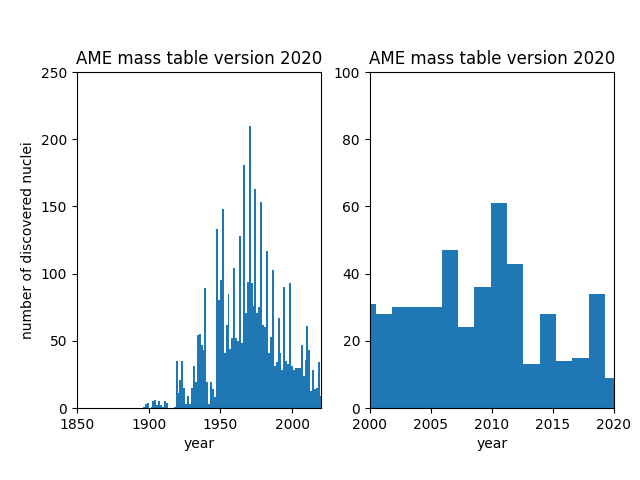
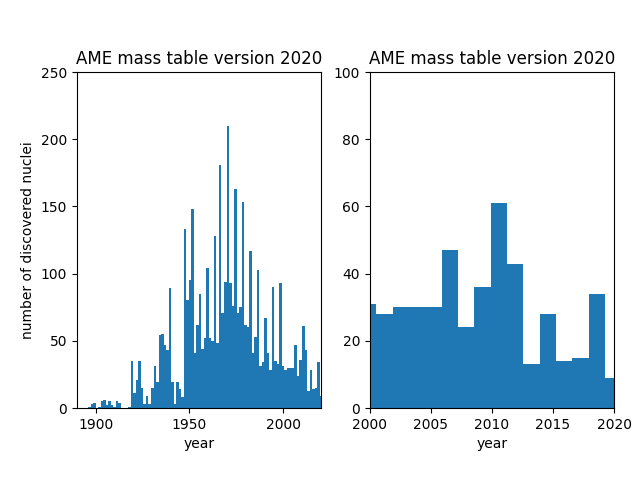
improvment in the naming...

Changed region(s): [[0.0938, 0.3438, 0.5, 0.9062], [0.4062, 0.875, 0.5, 0.9062], [0.9375, 0.875, 1.0, 0.9062]]

diff --git a/version1.0/samples/nucleardatapy_plots/plot_EOSEsym.py b/version1.0/samples/nucleardatapy_plots/plot_EOSEsym.py
@@ -9,7 +9,7 @@ sys.path.insert(0, nucleardatapy_tk)
 
 import nucleardatapy as nuda
 
-def plot_esym( pname, models_micro, models_pheno, band ):
+def plot_EOSEsym( pname, models_micro, models_pheno, band ):
     #
     # plot E/A in NM
     #
@@ -31,7 +31,7 @@ def plot_esym( pname, models_micro, models_pheno, band ):
     #
     for model in models_micro:
         #
-        mic = nuda.SetupMicroMatter( model = model )
+        mic = nuda.SetupEOSMicro( model = model )
         if mic.esym_e2a is not None: 
             print('model:',model)
             if mic.marker:
@@ -53,11 +53,11 @@ def plot_esym( pname, models_micro, models_pheno, band ):
     #
     for model in models_pheno:
         #
-        params, params_lower = nuda.params_pheno_matter( model = model )
+        params, params_lower = nuda.eos_pheno_params( model = model )
         #
         for param in params:
             #
-            pheno = nuda.SetupPhenoMatter( model = model, param = param )
+            pheno = nuda.SetupEOSPheno( model = model, param = param )
             if pheno.esym_e2a is not None: 
                 print('model:',model,' param:',param)
                 #pheno.label=None
@@ -76,7 +76,7 @@ def plot_esym( pname, models_micro, models_pheno, band ):
 def main():
     #
     print(50*'-')
-    print("Enter plot_Esym.py:")
+    print("Enter plot_EOSEsym.py:")
     print(50*'-')
     #
     # create the folder where the figures are stored
@@ -87,20 +87,20 @@ def main():
     #
     den = np.array([0.04,0.06,0.08,0.1,0.12,0.14,0.16])
     models = [ '2016-MBPT-AM', '2020-MBPT-AM' ]
-    band = nuda.SetupMicroMatterBand( models, den=den, matter='ESYM' )
+    band = nuda.SetupEOSMicroBand( models, den=den, matter='ESYM' )
     #
     # list the available models
     #
-    models_micro, models_lower = nuda.models_micro_matter()
-    models_pheno = [ 'Skyrme', 'NLRH', 'DDRH', 'DDRHF' ]
+    micro_models, micro_models_lower = nuda.eos_micro_models()
+    pheno_models = [ 'Skyrme', 'NLRH', 'DDRH', 'DDRHF' ]
     #
     # plot Esym
     #
-    pname = 'figs/plot_Esym.png'
-    plot_esym( pname, models_micro, models_pheno, band )
+    pname = 'figs/plot_EOSEsym.png'
+    plot_EOSEsym( pname, micro_models, pheno_models, band )
     #
     print(50*'-')
-    print("Exit plot_Esym.py:")
+    print("Exit plot_EOSEsym.py:")
     print(50*'-')
     #
 

diff --git a/version1.0/samples/nucleardatapy_plots/plot_EOSNEP.py b/version1.0/samples/nucleardatapy_plots/plot_EOSNEP.py
@@ -9,7 +9,7 @@ sys.path.insert(0, nucleardatapy_tk)
 
 import nucleardatapy as nuda
 
-def plot_NEP( pname, models_micro, models_pheno ):
+def plot_EOSNEP( pname, models_micro, models_pheno ):
     #
     # plot sat in the left and sym on the right
     #
@@ -85,7 +85,7 @@ def plot_NEP( pname, models_micro, models_pheno ):
 def main():
     #
     print(50*'-')
-    print("Enter plot_NEP.py:")
+    print("Enter plot_EOSNEP.py:")
     print(50*'-')
     #
     # create the folder where the figures are stored
@@ -94,16 +94,16 @@ def main():
     #
     # list the available models
     #
-    models_micro, models_lower = nuda.eos_pheno_models()
-    models_pheno = [ 'Skyrme', 'NLRH', 'DDRH', 'DDRHF' ]
+    micro_models, micro_models_lower = nuda.eos_micro_models()
+    pheno_models = [ 'Skyrme', 'NLRH', 'DDRH', 'DDRHF' ]
     #
     # plot distribution of NEP
     #
-    pname = 'figs/plot_NEP.png'
-    plot_NEP( pname, models_micro, models_pheno )
+    pname = 'figs/plot_EOSNEP.png'
+    plot_EOSNEP( pname, micro_models, pheno_models )
     #
     print(50*'-')
-    print("Exit plot_NEP.py:")
+    print("Exit plot_EOSNEP.py:")
     print(50*'-')
     #
 

diff --git a/version1.0/samples/nucleardatapy_plots/plot_SetupNucBEExp.py b/version1.0/samples/nucleardatapy_plots/plot_SetupNucBEExp.py
@@ -142,7 +142,7 @@ def plot_SetupNucBEExp_year( pname, table, version ):
     axs[0].set_title(r''+table+' mass table version '+version)
     axs[0].set_ylabel(r'number of discovered nuclei')
     axs[0].set_xlabel(r'year')
-    axs[0].set_xlim([1850, 2020])
+    axs[0].set_xlim([1890, 2020])
     #axs.set_yscale('log')
     axs[0].set_ylim([0, 250])
     #axs.text(10,120,'Number of nuclei:')
